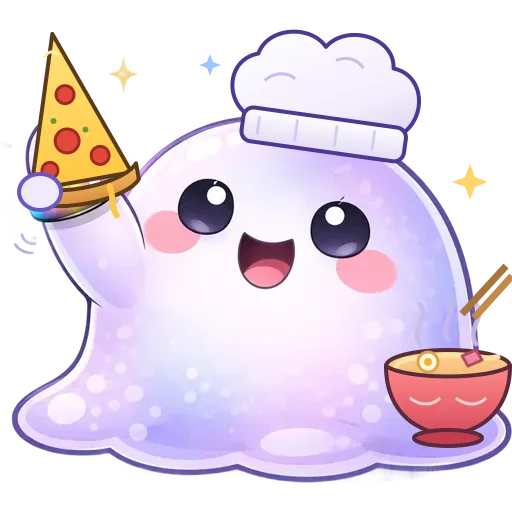
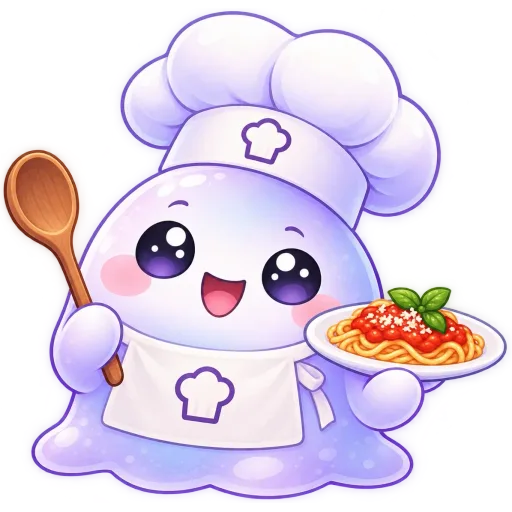
BLOP de comida: imagem do dono (chef com esparguete)
Claude-Session: https://claude.ai/code/session_0128FXTu2tD824X4MTsxtxrW

diff --git a/BACKLOG.md b/BACKLOG.md
@@ -20,8 +20,7 @@
 
 ## Identidade visual
 
-- Avatar BLOP — imagens do dono por categoria em `public/blop/` (música, desporto, passatempos/cinema, simples);
-  `food.webp` foi montada a partir do BLOP simples (chapéu de chef, pizza, ramen). Trocar se houver uma versão melhor.
+- Avatar BLOP — imagens do dono por categoria em `public/blop/` (música, desporto, passatempos/cinema, comida/chef, simples).
 - Ilustrações de estado em `public/blop/`: `looking.webp` (sem matches) e `thinking.webp` (0 em comum, 404).
 
 ## Pendências (decididas a 21/10/2026)
